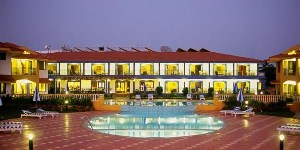
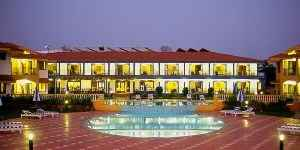
image src changed

diff --git a/app/incentive/content.html b/app/incentive/content.html
@@ -9,19 +9,19 @@
                                     <div class="col-lg-5 col-mg-5 col-sm-5">
                                         <div class="row" style="">
                                             <div class="col-lg-12 col-mg-12 col-sm-12 padding-5">
-                                                <img  alt="1" src="images/incentive/Incentive_Travel_Main.jpg" />
+                                                <img  alt="1" src="http://res.cloudinary.com/fomentotravel-com/image/upload/v1437997684/fomento/service/incentive/Incentive_Travel_Main_s7hwzq.jpg" />
                                             </div>
                                         </div>
                                         <div class="row" style="">
                                             <div class="col-lg-6 col-md-6 col-sm-6 padding-5">
                                                 <a data-toggle="modal" class="btn no-padding rel" href="incentive/acti.html" data-target="#acti">
-                                                    <img  src="images/incentive/Incentive_Travel_Activities.jpg" />
+                                                    <img  src="http://res.cloudinary.com/fomentotravel-com/image/upload/v1437997658/fomento/service/incentive/Incentive_Travel_Activities_agrovk.jpg" />
                                                     <div class="link-text">Activites</div>
                                                 </a>
                                             </div>
                                             <div class="col-lg-6 col-md-6 col-sm-6 padding-5">
                                                 <a data-toggle="modal" class="btn no-padding rel" href="incentive/stay.html" data-target="#stay">
-                                                    <img  src="images/incentive/Incentive_Travel_Stay_Options.jpg" />
+                                                    <img  src="http://res.cloudinary.com/fomentotravel-com/image/upload/v1437997754/fomento/service/incentive/Incentive_Travel_Stay_Options_ee2wfi.jpg" />
                                                     <div class="link-text">Stay Options</div>
                                                 </a>
                                             </div>
@@ -29,13 +29,13 @@
                                         <div class="row" style="">
                                             <div class="col-lg-6 col-md-6 col-sm-6 padding-5">
                                                 <a data-toggle="modal" class="btn no-padding rel" href="incentive/night.html" data-target="#night">
-                                                    <img  src="images/incentive/Incentive_Travel_Nightlife.jpg" />
+                                                    <img  src="http://res.cloudinary.com/fomentotravel-com/image/upload/v1437997721/fomento/service/incentive/Incentive_Travel_Nightlife_d90vil.jpg" />
                                                     <div class="link-text">NightLife</div>
                                                 </a>
                                             </div>
                                             <div class="col-lg-6 col-md-6 col-sm-6 padding-5">
                                                 <a data-toggle="modal" class="btn no-padding rel" href="incentive/unwind.html" data-target="#unwind">
-                                                    <img  src="images/incentive/Incentive_Travel_Unwind.jpg" />
+                                                    <img  src="http://res.cloudinary.com/fomentotravel-com/image/upload/v1437997775/fomento/service/incentive/Incentive_Travel_Unwind_ylwlzd.jpg" />
                                                     <div class="link-text">Unwind</div>
                                                 </a>
                                             </div>

diff --git a/app/activities/content.html b/app/activities/content.html
@@ -11,19 +11,19 @@
                                     <div class="col-lg-5 col-mg-5 col-sm-5">
                                         <div class="row" style="">
                                             <div class="col-lg-12 col-mg-12 col-sm-12 padding-5">
-                                                <img  alt="1" src="images/activities/Activities_Main1.jpg" />
+                                                <img  alt="1" src="http://res.cloudinary.com/fomentotravel-com/image/upload/v1437997307/fomento/service/activities/Activities_Main_jsaehu.jpg" />
                                             </div>
                                         </div>
                                         <div class="row" style="">
                                             <div class="col-lg-6 col-md-6 col-sm-6 padding-5">
                                                 <a data-toggle="modal" class="btn no-padding rel" href="activities/water.html" data-target="#water">
-                                                    <img  src="images/activities/Activities_Water_Sports.jpg" />
+                                                    <img  src="http://res.cloudinary.com/fomentotravel-com/image/upload/v1437997412/fomento/service/activities/Activities_Water_Sports_qi2zs3.jpg" />
                                                     <div class="link-text">Water sports</div>
                                                 </a>
                                             </div>
                                             <div class="col-lg-6 col-md-6 col-sm-6 padding-5">
                                                 <a data-toggle="modal" class="btn no-padding rel" href="incentive/night.html" data-target="#night">
-                                                    <img  src="images/activities/Activities_nightlife.jpg" />
+                                                    <img  src="http://res.cloudinary.com/fomentotravel-com/image/upload/v1437997334/fomento/service/activities/Activities_nightlife_kfwmoi.jpg" />
                                                     <div class="link-text">Nightlife</div>
                                                 </a>
                                             </div>
@@ -31,13 +31,13 @@
                                         <div class="row" style="">
                                             <div class="col-lg-6 col-md-6 col-sm-6 padding-5">
                                                 <a data-toggle="modal" class="btn no-padding rel" href="activities/adven.html" data-target="#adven">
-                                                    <img  src="images/activities/Activities_Adventure1.jpg" />
+                                                    <img  src="http://res.cloudinary.com/fomentotravel-com/image/upload/v1437997260/fomento/service/activities/Activities_Adventure_qu8qpv.jpg" />
                                                     <div class="link-text">Adventure</div>
                                                 </a>
                                             </div>
                                             <div class="col-lg-6 col-md-6 col-sm-6 padding-5">
                                                 <a data-toggle="modal" class="btn no-padding rel" href="activities/team.html" data-target="#team">
-                                                    <img  src="images/activities/Activities_Team_Building.png" />
+                                                    <img  src="http://res.cloudinary.com/fomentotravel-com/image/upload/v1437997379/fomento/service/activities/Activities_Team_Building_xs7wss.png" />
                                                     <div class="link-text">Team Building</div>
                                                 </a>
                                             </div>

diff --git a/app/hinterland/content.html b/app/hinterland/content.html
@@ -10,19 +10,19 @@
                                     <div class="col-lg-5 col-mg-5 col-sm-5">
                                         <div class="row" style="">
                                             <div class="col-lg-12 col-mg-12 col-sm-12 padding-5">
-                                                <img alt="1" src="images/hinterland/MICE_Hinterland_up.jpg" />
+                                                <img alt="1" src="http://res.cloudinary.com/fomentotravel-com/image/upload/v1437996463/fomento/mice/hinterland/MICE_Hinterland_up_yl9hco.jpg" />
                                             </div>
                                         </div>
                                         <div class="row" style="">
                                             <div class="col-lg-6 col-md-6 col-sm-6 padding-5">
                                                 <a data-toggle="modal" class="btn no-padding rel" href="hinterland/loc.html" data-target="#loc">
-                                                    <img src="images/hinterland/MICE_Hinterland_Nature.jpg" />
+                                                    <img src="http://res.cloudinary.com/fomentotravel-com/image/upload/v1437996351/fomento/mice/hinterland/MICE_Hinterland_Nature_cyveu1.jpg" />
                                                     <div class="link-text">locations</div>
                                                 </a>
                                             </div>
                                             <div class="col-lg-6 col-md-6 col-sm-6 padding-5">
                                                 <a data-toggle="modal" class="btn no-padding rel" href="hinterland/eco.html" data-target="#eco">
-                                                    <img src="images/hinterland/MICE_Hinterland_Eco_Resorts.jpg" />
+                                                    <img src="eco- http://res.cloudinary.com/fomentotravel-com/image/upload/v1437996213/fomento/mice/hinterland/MICE_Hinterland_Eco_Resorts_hpdm5h.jpg" />
                                                     <div class="link-text">ECO RESORTS</div>
                                                 </a>
                                             </div>
@@ -30,13 +30,13 @@
                                         <div class="row" style="">
                                             <div class="col-lg-6 col-md-6 col-sm-6 padding-5">
                                                 <a data-toggle="modal" class="btn no-padding rel" href="hinterland/act.html" data-target="#hinter_act">
-                                                    <img src="images/hinterland/MICE_Hinterland_Spice.jpg" />
+                                                    <img src="http://res.cloudinary.com/fomentotravel-com/image/upload/v1437996431/fomento/mice/hinterland/MICE_Hinterland_Spice_fxatvp.jpg" />
                                                     <div class="link-text">Activities</div>
                                                 </a>
                                             </div>
                                             <div class="col-lg-6 col-md-6 col-sm-6 padding-5">
                                                 <a data-toggle="modal" class="btn no-padding rel" href="hinterland/event.html" data-target="#ideas">
-                                                    <img src="images/hinterland/MICE_Hinterland_Ideas.jpg" />
+                                                    <img src="http://res.cloudinary.com/fomentotravel-com/image/upload/v1437996276/fomento/mice/hinterland/MICE_Hinterland_Ideas_ukkack.jpg" />
                                                     <div class="link-text">event Ideas</div>
                                                 </a>
                                             </div>

diff --git a/app/heritage/content.html b/app/heritage/content.html
@@ -11,19 +11,19 @@
                                     <div class="col-lg-5 col-mg-5 col-sm-5">
                                         <div class="row" style="">
                                             <div class="col-lg-12 col-mg-12 col-sm-12 padding-5">
-                                                <img alt="1" src="images/heritage/MICE_Heritage_Up.jpg" />
+                                                <img alt="1" src="http://res.cloudinary.com/fomentotravel-com/image/upload/v1437996079/fomento/mice/heritage/MICE_Heritage_Up_nxkqvv.jpg" />
                                             </div>
                                         </div>
                                         <div class="row" style="">
                                             <div class="col-lg-6 col-md-6 col-sm-6 padding-5">
                                                 <a data-toggle="modal" class="btn no-padding rel" href="heritage/loc.html" data-target="#heri_loc">
-                                                    <img src="images/heritage/MICE_Heritage_Location1.jpg" />
+                                                    <img src="http://res.cloudinary.com/fomentotravel-com/image/upload/v1437996038/fomento/mice/heritage/MICE_Heritage_Location_ndsbyx.jpg" />
                                                     <div class="link-text">locations</div>
                                                 </a>
                                             </div>
                                             <div class="col-lg-6 col-md-6 col-sm-6 padding-5">
                                                 <a data-toggle="modal" class="btn no-padding rel" href="heritage/arch.html" data-target="#arch">
-                                                    <img src="images/heritage/MICE_Hinterland_up1.jpg" />
+                                                    <img src="http://res.cloudinary.com/fomentotravel-com/image/upload/v1437995766/fomento/mice/heritage/MICE_Heritage_Architecture_o7mt5t.jpg" />
                                                     <div class="link-text">architecture</div>
                                                 </a>
                                             </div>
@@ -31,13 +31,13 @@
                                         <div class="row" style="">
                                             <div class="col-lg-6 col-md-6 col-sm-6 padding-5">
                                                 <a data-toggle="modal" class="btn no-padding rel" href="heritage/hotel.html" data-target="#heri_hotels">
-                                                    <img src="images/heritage/MICE_Heritage_Architechture1.jpg" />
+                                                    <img src="http://res.cloudinary.com/fomentotravel-com/image/upload/v1437995922/fomento/mice/heritage/MICE_Heritage_Hotels_n4ykad.jpg" />
                                                     <div class="link-text">HERITAGE HOTELS</div>
                                                 </a>
                                             </div>
                                             <div class="col-lg-6 col-md-6 col-sm-6 padding-5">
                                                 <a data-toggle="modal" class="btn no-padding rel" href="heritage/idea.html" data-target="#heri_events">
-                                                    <img src="images/heritage/MICE_Heritage_Ideas.jpg" />
+                                                    <img src="http://res.cloudinary.com/fomentotravel-com/image/upload/v1437995983/fomento/mice/heritage/MICE_Heritage_Ideas_ry1knq.jpg" />
                                                     <div class="link-text">event ideas</div>
                                                 </a>
                                             </div>

diff --git a/app/events/content.html b/app/events/content.html
@@ -9,19 +9,19 @@
                                     <div class="col-lg-5 col-mg-5 col-sm-5">
                                         <div class="row" style="">
                                             <div class="col-lg-12 col-mg-12 col-sm-12 padding-5">
-                                                <img alt="1"  src="images/events/Events_Main1.jpg" />
+                                                <img alt="1"  src="http://res.cloudinary.com/fomentotravel-com/image/upload/v1437997569/fomento/service/events/Events_Main_n7mvqc.jpg" />
                                             </div>
                                         </div>
                                         <div class="row" style="">
                                             <div class="col-lg-6 col-md-6 col-sm-6 padding-5">
                                                 <a data-toggle="modal" class="btn no-padding rel" href="events/hotel.html" data-target="#hotels">
-                                                    <img  src="images/events/Events_Hotels.jpg" />
+                                                    <img  src="http://res.cloudinary.com/fomentotravel-com/image/upload/v1437997525/fomento/service/events/Events_Hotels_uht6dk.jpg" />
                                                     <div class="link-text">HOTELS</div>
                                                 </a>
                                             </div>
                                             <div class="col-lg-6 col-md-6 col-sm-6 padding-5">
                                                 <a data-toggle="modal" class="btn no-padding rel" href="events/enter.html" data-target="#enter">
-                                                    <img  src="images/events/Events_Entertainment.jpg" />
+                                                    <img  src="http://res.cloudinary.com/fomentotravel-com/image/upload/v1437997474/fomento/service/events/Events_Entertainment_xgxrr2.jpg" />
                                                     <div class="link-text">Entertainment</div>
                                                 </a>
                                             </div>
@@ -29,13 +29,13 @@
                                         <div class="row" style="">
                                             <div class="col-lg-6 col-md-6 col-sm-6 padding-5">
                                                 <a data-toggle="modal" class="btn no-padding rel" href="events/venue.html" data-target="#venu">
-                                                    <img  src="images/events/Events_Venue.jpg" />
+                                                    <img  src="http://res.cloudinary.com/fomentotravel-com/image/upload/v1437997591/fomento/service/events/Events_Venue_iwer4o.jpg" />
                                                     <div class="link-text">VENUES</div>
                                                 </a>
                                             </div>
                                             <div class="col-lg-6 col-md-6 col-sm-6 padding-5">
                                                 <a data-toggle="modal" class="btn no-padding rel" href="events/idea.html" data-target="#ideas">
-                                                    <img  src="images/events/Events_Ideas.jpg" />
+                                                    <img  src="http://res.cloudinary.com/fomentotravel-com/image/upload/v1437997548/fomento/service/events/Events_Ideas_fckgeb.jpg" />
                                                     <div class="link-text">Ideas</div>
                                                 </a>
                                             </div>

diff --git a/app/why/content.html b/app/why/content.html
@@ -9,19 +9,19 @@
                                     <div class="col-lg-5 col-mg-5 col-sm-5">
                                         <div class="row" style="">
                                             <div class="col-lg-12 col-mg-12 col-sm-12 padding-5">
-                                                <img alt="1" src="images/why/Why_Goa_up.jpg" />
+                                                <img alt="1" src="http://res.cloudinary.com/fomentotravel-com/image/upload/v1437997033/fomento/mice/why/Why_Goa_up_fqci7z.jpg" />
                                             </div>
                                         </div>
                                         <div class="row" style="">
                                             <div class="col-lg-6 col-md-6 col-sm-6 padding-5">
                                                 <a data-toggle="modal" class="btn no-padding rel" href="why/hotel.html" data-target="#why_hotels">
-                                                    <img src="images/why/Why_Goa_Hotels1.jpg" />
+                                                    <img src="http://res.cloudinary.com/fomentotravel-com/image/upload/v1437996981/fomento/mice/why/Why_Goa_Hotels_hkcccf.jpg" />
                                                     <div class="link-text">hotels</div>
                                                 </a>
                                             </div>
                                             <div class="col-lg-6 col-md-6 col-sm-6 padding-5">
                                                 <a data-toggle="modal" class="btn no-padding rel" href="why/beach.html" data-target="#why_beach">
-                                                    <img src="images/why/Why_Goa_Beaches.jpg" />
+                                                    <img src="http://res.cloudinary.com/fomentotravel-com/image/upload/v1437996928/fomento/mice/why/Why_Goa_Beaches_k33l6a.jpg" />
                                                     <div class="link-text">beaches</div>
                                                 </a>
                                             </div>
@@ -29,13 +29,13 @@
                                         <div class="row" style="">
                                             <div class="col-lg-6 col-md-6 col-sm-6 padding-5">
                                                 <a data-toggle="modal" class="btn no-padding rel" href="why/nat.html" data-target="#nature">
-                                                    <img src="images/why/Why_Goa_Nature.jpg" />
+                                                    <img src="http://res.cloudinary.com/fomentotravel-com/image/upload/v1437997006/fomento/mice/why/Why_Goa_Nature_n0fwq6.jpg" />
                                                     <div class="link-text">Nature</div>
                                                 </a>
                                             </div>
                                             <div class="col-lg-6 col-md-6 col-sm-6 padding-5">
                                                 <a data-toggle="modal" class="btn no-padding rel" href="why/heri.html" data-target="#heri">
-                                                    <img src="images/why/Why_Goa_Heritage.jpg" />
+                                                    <img src="http://res.cloudinary.com/fomentotravel-com/image/upload/v1437996955/fomento/mice/why/Why_Goa_Heritage_dqezcu.jpg" />
                                                     <div class="link-text">heritage</div>
                                                 </a>
                                             </div>

diff --git a/app/sss/content.html b/app/sss/content.html
@@ -9,19 +9,19 @@
                                     <div class="col-lg-5 col-mg-5 col-sm-5">
                                         <div class="row" style="">
                                             <div class="col-lg-12 col-mg-12 col-sm-12 padding-5">
-                                                <img alt="1" src="images/sss/SSS_up1.jpg" />
+                                                <img alt="1" src="http://res.cloudinary.com/fomentotravel-com/image/upload/v1437996702/fomento/mice/sss/SSS_up_moyorg.jpg" />
                                             </div>
                                         </div>
                                         <div class="row" style="">
                                             <div class="col-lg-6 col-md-6 col-sm-6 padding-5">
                                                 <a data-toggle="modal" class="btn no-padding rel" href="why/beach.html" data-target="#why_beach">
-                                                    <img src="images/sss/SSS_Beachh.jpg" />
+                                                    <img src="http://res.cloudinary.com/fomentotravel-com/image/upload/v1437996523/fomento/mice/sss/SSS_Beach_jqdzyx.jpg" />
                                                     <div class="link-text">Beaches</div>
                                                 </a>
                                             </div>
                                             <div class="col-lg-6 col-md-6 col-sm-6 padding-5">
                                                 <a data-toggle="modal" class="btn no-padding rel" href="ts/br.html" data-target="#resorts">
-                                                    <img src="images/sss/SSS_up.jpg" />
+                                                    <img src="http://res.cloudinary.com/fomentotravel-com/image/upload/v1437996641/fomento/mice/sss/SSS_beach_event_cpgka7.jpg" />
                                                     <div class="link-text">Beach Resorts</div>
                                                 </a>
                                             </div>
@@ -29,13 +29,13 @@
                                         <div class="row" style="">
                                             <div class="col-lg-6 col-md-6 col-sm-6 padding-5">
                                                 <a data-toggle="modal" class="btn no-padding rel" href="activities/water.html" data-target="#water">
-                                                    <img src="images/sss/SSS_Ideass.jpeg" />
+                                                    <img src="http://res.cloudinary.com/fomentotravel-com/image/upload/v1437996753/fomento/mice/sss/SSS_water_sport_nj2tka.jpg" />
                                                     <div class="link-text">Water sports</div>
                                                 </a>
                                             </div>
                                             <div class="col-lg-6 col-md-6 col-sm-6 padding-5">
                                                 <a data-toggle="modal" class="btn no-padding rel" href="sss/be.html" data-target="#beach_events">
-                                                    <img src="images/sss/SSS_Event_Ideas.jpg" />
+                                                    <img src="http://res.cloudinary.com/fomentotravel-com/image/upload/v1437996641/fomento/mice/sss/SSS_beach_event_cpgka7.jpg" />
                                                     <div class="link-text">BEACH EVENTS</div>
                                                 </a>
                                             </div>

diff --git a/app/ts/content.html b/app/ts/content.html
@@ -9,33 +9,33 @@
     <div class="col-lg-5 col-mg-5 col-sm-5">
         <div class="row" style="">
             <div class="col-lg-12 col-mg-12 col-sm-12 padding-5">
-                <img  alt="1" src="images/ts/frst.jpg" style="" />
+                <img alt="1" src="http://res.cloudinary.com/fomentotravel-com/image/upload/v1437997819/fomento/service/ts/frst_fef7io.jpg" style="" />
             </div>
         </div>
         <div class="row" style="">
             <div class="col-lg-6 col-md-6 col-sm-6 padding-5">
                 <a data-toggle="modal" class="btn no-padding rel" href="ts/br.html" data-target="#beach">
-                    <img src="images/ts/Travel_and_Stay_Beach_Resorts.jpg" />
-                    <div  class="link-text">Beach Resorts</div>
+                    <img src="http://res.cloudinary.com/fomentotravel-com/image/upload/v1437997850/fomento/service/ts/Travel_and_Stay_Beach_Resorts_nqz4xl.jpg" />
+                    <div class="link-text">Beach Resorts</div>
                 </a>
             </div>
             <div class="col-lg-6 col-md-6 col-sm-6 padding-5">
                 <a data-toggle="modal" class="btn no-padding rel" href="ts/villa.html" data-target="#villa">
-                    <img src="images/ts/Travel_and_Stay_Villa_resorts.jpg" />
-                    <div  class="link-text">Villa Resorts</div>
+                    <img src="http://res.cloudinary.com/fomentotravel-com/image/upload/v1437997947/fomento/service/ts/Travel_and_Stay_Villa_resorts_eo4ebc.jpg" />
+                    <div class="link-text">Villa Resorts</div>
                 </a>
             </div>
         </div>
         <div class="row" style="">
             <div class="col-lg-6 col-md-6 col-sm-6 padding-5">
                 <a data-toggle="modal" class="btn no-padding rel" href="ts/busi.html" data-target="#busi">
-                    <img  src="images/ts/Travel_and_Stay_Business_Hotels.jpg" />
+                    <img src="http://res.cloudinary.com/fomentotravel-com/image/upload/v1437997885/fomento/service/ts/Travel_and_Stay_Business_Hotels_gl2syn.jpg" />
                     <div class="link-text">Business Hotels</div>
                 </a>
             </div>
             <div class="col-lg-6 col-md-6 col-sm-6 padding-5">
                 <a data-toggle="modal" class="btn no-padding rel" href="ts/logi.html" data-target="#logi">
-                    <img  src="images/ts/Travel_and_Stay_Local_Logistics.jpg" />
+                    <img src="http://res.cloudinary.com/fomentotravel-com/image/upload/v1437997920/fomento/service/ts/Travel_and_Stay_Local_Logistics_hqxnyo.jpg" />
                     <div class="link-text">Local Logistics</div>
                 </a>
             </div>

diff --git a/app/mice.html b/app/mice.html
@@ -37,7 +37,7 @@
                                 <a class="fadout" style="float:right" type="button">&times;</a>
                             </header>
                             <div class="content">
-                                <img src="images/why/Why_Goa_Main.jpg" alt="Why Goa?" />
+                                <img src="http://res.cloudinary.com/fomentotravel-com/image/upload/v1437995667/fomento/mice/Why_Goa_Main_lqvl1w.jpg" alt="Why Goa?" />
                             </div>
                             <div class="content-more" href="why/content.html">
                                 
@@ -53,7 +53,7 @@
                                 <a class="fadout" style="float:right" type="button">&times;</a>
                             </header>
                             <div class="content">
-                                <img src="images/sss/SSS_Main.jpg" alt="Sun, Sand &amp; Suits" />
+                                <img src="http://res.cloudinary.com/fomentotravel-com/image/upload/v1437995602/fomento/mice/SSS_Main_sc1dmt.jpg" alt="Sun, Sand &amp; Suits" />
                             </div>
                             <div class="content-more" href="sss/content.html">
                                 
@@ -71,7 +71,7 @@
                                 <a class="fadout" style="float:right" type="button">&times;</a>
                             </header>
                             <div class="content">
-                                <img src="images/hinterland/MICE_Hinterland.jpg" alt="M.I.C.E - hinterland" />
+                                <img src="http://res.cloudinary.com/fomentotravel-com/image/upload/v1437995524/fomento/mice/MICE_Hinterland_scf8zt.jpg" alt="M.I.C.E - hinterland" />
                             </div>
                             <div class="content-more" href="hinterland/content.html">
                                 
@@ -87,7 +87,7 @@
                                 <a class="fadout" style="float:right" type="button">&times;</a>
                             </header>
                             <div class="content">
-                                <img src="images/heritage/MICE_Heritage3.jpg" alt="M.I.C.E - heritage" />
+                                <img src="http://res.cloudinary.com/fomentotravel-com/image/upload/v1437995203/fomento/mice/MICE_Heritage3_stie7g.jpg" alt="M.I.C.E - heritage" />
                             </div>
                             <div class="content-more" href="heritage/content.html">
                                 

diff --git a/app/service.html b/app/service.html
@@ -37,7 +37,7 @@
                                 <a class="fadout" style="float:right" type="button">&times;</a>
                             </header>
                             <div class="content">
-                                <img src="images/ts/Travel_and_Stay.jpg" alt="Travel and stay" />
+                                <img src="http://res.cloudinary.com/fomentotravel-com/image/upload/v1437997214/fomento/service/Travel_and_Stay_kkpbdk.jpg" alt="Travel and stay" />
                             </div>
                             <div class="content-more" href="ts/content.html">
                             </div>
@@ -52,7 +52,7 @@
                                 <a class="fadout" style="float:right" type="button">&times;</a>
                             </header>
                             <div class="content">
-                                <img src="images/incentive/Incentive_Travel.jpg" alt="Incentive travel" />
+                                <img src="http://res.cloudinary.com/fomentotravel-com/image/upload/v1437997186/fomento/service/Incentive_Travel_rfdeme.jpg" alt="Incentive travel" />
                             </div>
                             <div class="content-more" href="incentive/content.html">
                                 
@@ -70,7 +70,7 @@
                                 <a class="fadout" style="float:right" type="button">&times;</a>
                             </header>
                             <div class="content">
-                                <img src="images/events/Events.jpg" alt="Events" />
+                                <img src="http://res.cloudinary.com/fomentotravel-com/image/upload/v1437997153/fomento/service/Events_hiz1e8.jpg" alt="Events" />
                             </div>
                             <div class="content-more" href="events/content.html">
                                 
@@ -86,7 +86,7 @@
                                 <a class="fadout" style="float:right" type="button">&times;</a>
                             </header>
                             <div class="content">
-                                <img src="images/activities/Activities.jpg" alt="Activities" />
+                                <img src="http://res.cloudinary.com/fomentotravel-com/image/upload/v1437997107/fomento/service/Activities_lvcktu.jpg" alt="Activities" />
                             </div>
                             <div class="content-more" href="activities/content.html">
                                 

diff --git a/app/index.html b/app/index.html
@@ -34,7 +34,7 @@
     </header>
     <section class="relative">
         <div>
-            <img src="images/index.jpg" width="100%" />
+            <img src="http://res.cloudinary.com/fomentotravel-com/image/upload/v1437994740/fomento/index_z2r9ss.jpg" width="100%" />
         </div>
         <div class="container overlay">
             <div class="row">
